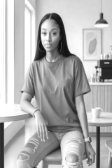
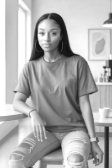
Stop the picker squashing a template that is not 2:3 (#35)
* Stop the picker squashing a template that is not 2:3

The thumbnail builder drew the whole source into a fixed 112x168 tile
with drawImage(src, 0, 0, TW, TH), which stretches rather than fits.
Every template was 2:3 when that was written, so it happened to be
exact and the distinction never came up. cafe-f is 1285x1600 — 17%
narrower in the picker than it should be, and the model reads visibly
squeezed.

The tile now scales to COVER and centre-crops. That keeps the grid
uniform, which is what a fixed tile is for, and keeps proportions, which
is what it is showing. The same transform goes to all three layers: a
weight or shade map cropped differently from its photo would misalign
the picker's live recolour.

The other templates move by a tenth of a pixel — 1066x1600 is 0.66625,
not the tile's 0.66667, so cover crops 0.11px of height and the
resampling lands fractionally differently. Invisible, but not nil, so
their thumbnails are in the diff.

Claude-Session: https://claude.ai/code/session_01Su12hGeCXyeFK3K1A9tMxk

* Restamp the pages after the squash merge

The stamp names the last commit touching each page's own source, and the
squash rewrote that history — so the built copies pointed at a sha that
no longer exists on main. The freshness check caught it.

Claude-Session: https://claude.ai/code/session_01Su12hGeCXyeFK3K1A9tMxk

---------

diff --git a/scratch/artifacts/standalone/template-studio.html b/scratch/artifacts/standalone/template-studio.html
@@ -192,7 +192,7 @@
 </style>
 <div class="wrap">
   <header>
-    <span class="eyebrow">FreeTeeMockup · internal <span id="buildStamp">· 2026-08-07 841f85b</span></span>
+    <span class="eyebrow">FreeTeeMockup · internal <span id="buildStamp">· 2026-08-07 eb914f4</span></span>
     <h1>On-Model Template Studio</h1>
     <p class="lede">
       The full workflow for adding a template: generate a pipeline-safe prompt, validate the

diff --git a/scratch/artifacts/standalone/try-colors.html b/scratch/artifacts/standalone/try-colors.html
@@ -246,7 +246,7 @@
 
 <div class="wrap">
   <header>
-    <span class="eyebrow">FreeTeeMockup · internal <span id="buildStamp">· 2026-08-07 841f85b</span></span>
+    <span class="eyebrow">FreeTeeMockup · internal <span id="buildStamp">· 2026-08-07 eb914f4</span></span>
     <h1>Colour View</h1>
     <p class="lede">
       Paste a candidate model photo — a model in the vivid-violet crewneck — and see it in
